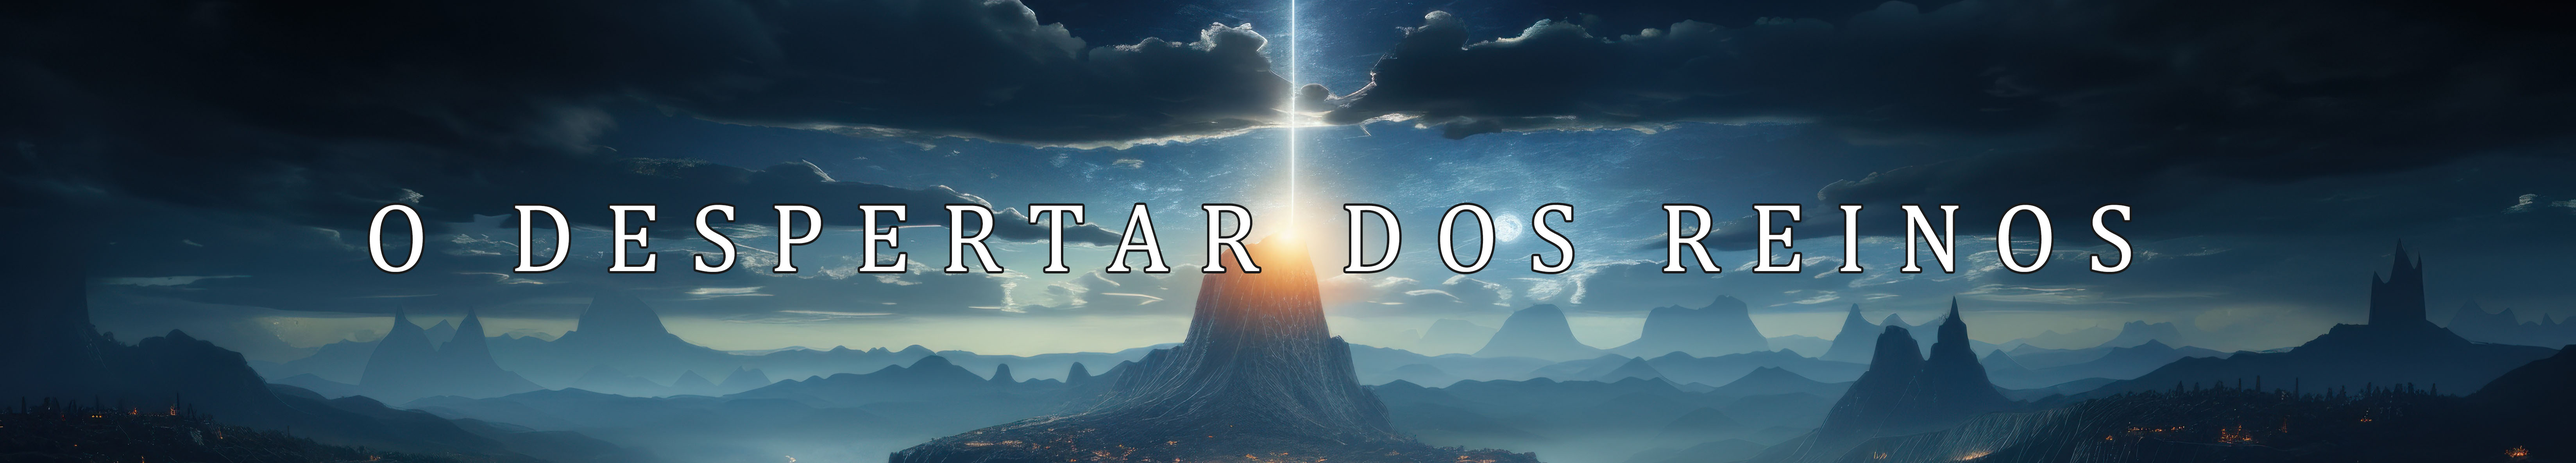
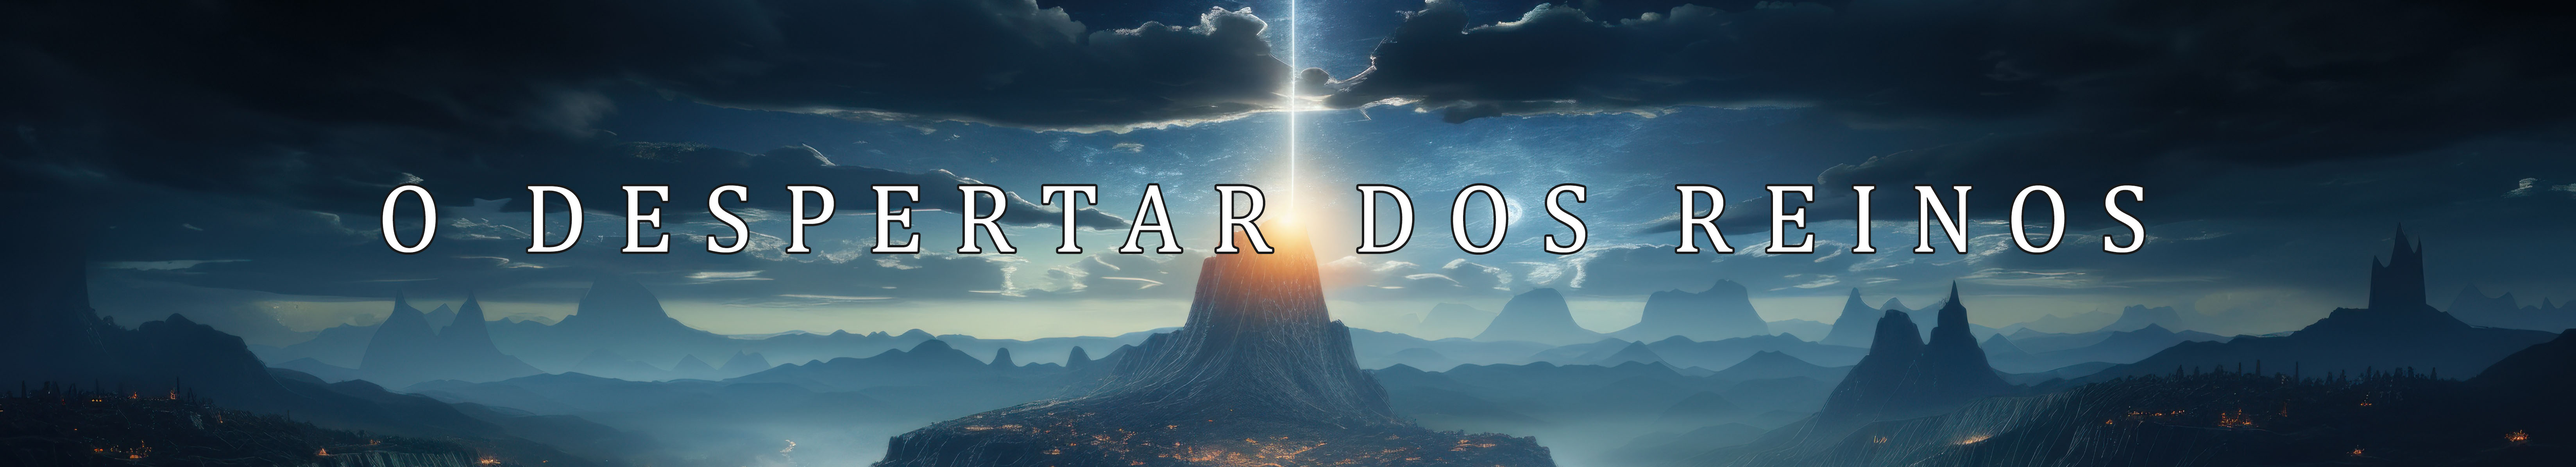
Add files via upload

diff --git a/magic.html b/magic.html
@@ -6,28 +6,26 @@
     <meta name="viewport" content="width=700, initial-scale=1">
     <link href="main.css" rel="stylesheet" type="text/css" />
     <title>C A R T A S  - M Á G I C A S</title>
-    <br>
-    <center><h1><b>O - D E S P E  R T A R - D O S - R E I N O S</b></h1></center>
-    <!--linha--><hr size="2" width="38%" align="center" noshade color="black">
-    <br>
-    <center><h1>C A R T A S  - M Á G I C A S</h1></center>
+    <link href="main.css" rel="stylesheet" type="text/css" />
 </head>
+<header>
+    <img src="banner despertar dos reinos cartas magicas.jpg"  alt="Banner" class="banner"  />
+</header>
 <body>
-<br> 
- <!--MENU PRINCIPAL-->
- <br><nav id="menu-h">
-    <ul>
-        <li><a href="index.html">H O M E</a></li>
-        <!--<li><a href="reinos.html">R E I N O S</a></li>-->
-        <li><a href="historia.html">H I S T Ó R I A</a></li>
-        <li><a href="personagens.html">P E R S O N A G E N S</a></li>
-        <!--<li><a href="map.html">M A P A S</a></li>-->
-        <li><a href="magic.html">C A R T A S  - M Á G I C A S</a></li>
-        <li><a href="help.html">A J U D A</a></li>
-        
-    </ul>
- 
- </nav>
+
+    
+<!--MENU PRINCIPAL-->
+    <nav id="menu-h">
+        <ul>
+            <li><a href="index.html">H O M E</a></li>
+            <li><a href="historia.html">H I S T Ó R I A</a></li>
+            <li><a href="personagens.html">P E R S O N A G E N S</a></li>
+            <li><a href="magic.html">C A R T A S  - M Á G I C A S</a></li>
+            <li><a href="help.html">A J U D A</a></li>
+        </ul>
+    </nav>
+
+
  
 
  <img src="image1.jpeg" width="250" style="left: 150px; top: 250px; position: absolute"><br>

diff --git a/help.html b/help.html
@@ -6,28 +6,25 @@
     <meta name="viewport" content="width=700, initial-scale=1">
     <link href="main.css" rel="stylesheet" type="text/css" />
     <title>A J U D A</title>
-    <br>
-    <center><h1><b>O - D E S P E  R T A R - D O S - R E I N O S</b></h1></center>
-    <!--linha--><hr size="2" width="38%" align="center" noshade color="black">
-    <br>
-    <center><h1>A J U D A</h1></center>
+    <link href="main.css" rel="stylesheet" type="text/css" />
 </head>
+<header>
+    <img src="banner despertar dos reinos ajuda.jpg"  alt="Banner" class="banner"  />
+</header>
 <body>
-<br>
-<!--MENU PRINCIPAL-->
-<br><nav id="menu-h">
-    <ul>
-        <li><a href="index.html">H O M E</a></li>
-        <!--<li><a href="reinos.html">R E I N O S</a></li>-->
-        <li><a href="historia.html">H I S T Ó R I A</a></li>
-        <li><a href="personagens.html">P E R S O N A G E N S</a></li>
-        <!--<li><a href="map.html">M A P A S</a></li>-->
-        <li><a href="magic.html">C A R T A S  - M Á G I C A S</a></li>
-        <li><a href="help.html">A J U D A</a></li>
-        
-    </ul>
 
-</nav>
+    
+<!--MENU PRINCIPAL-->
+    <nav id="menu-h">
+        <ul>
+            <li><a href="index.html">H O M E</a></li>
+            <li><a href="historia.html">H I S T Ó R I A</a></li>
+            <li><a href="personagens.html">P E R S O N A G E N S</a></li>
+            <li><a href="magic.html">C A R T A S  - M Á G I C A S</a></li>
+            <li><a href="help.html">A J U D A</a></li>
+        </ul>
+    </nav>
+
 
 <!--
  <br>

diff --git a/historia.html b/historia.html
@@ -6,29 +6,25 @@
     <meta name="viewport" content="width=700, initial-scale=1">
     <link href="main.css" rel="stylesheet" type="text/css" />
     <title>H I S T Ó R I A</title>
-    <br>
-    <center><h1><b>O - D E S P E  R T A R - D O S - R E I N O S</b></h1></center>
-    <!--linha--><hr size="2" width="38%" align="center" noshade color="black">
-    <br>
-    <center><h1>H I S T Ó R I A</h1></center>
+    <link href="main.css" rel="stylesheet" type="text/css" />
 </head>
+<header>
+    <img src="banner despertar dos reinos historia.jpg"  alt="Banner" class="banner"  />
+</header>
 <body>
-<br>
 
-    <!--MENU PRINCIPAL-->
-    <br><nav id="menu-h">
+    
+<!--MENU PRINCIPAL-->
+    <nav id="menu-h">
         <ul>
             <li><a href="index.html">H O M E</a></li>
-            <!--<li><a href="reinos.html">R E I N O S</a></li>-->
             <li><a href="historia.html">H I S T Ó R I A</a></li>
             <li><a href="personagens.html">P E R S O N A G E N S</a></li>
-            <!--<li><a href="map.html">M A P A S</a></li>-->
             <li><a href="magic.html">C A R T A S  - M Á G I C A S</a></li>
             <li><a href="help.html">A J U D A</a></li>
-            
         </ul>
+    </nav>
 
-</nav>
 
 
 <br><br><br><br><br><br><br><br><br><br><br><br><br><br><br><br><br><br><br><br><br><br>

diff --git a/personagens.html b/personagens.html
@@ -5,29 +5,26 @@
     <meta http-equiv="X-UA-Compatible" content="IE=edge">
     <meta name="viewport" content="width=700, initial-scale=1">
     <title>P E R S O N A G E N S</title>
-    <br>
-    <center><h1><b>O - D E S P E  R T A R - D O S - R E I N O S</b></h1></center>
-    <!--linha--><hr size="2" width="38%" align="center" noshade color="black">
-    <br>
-    <center><h1>P E R S O N A G E N S</h1></center>
     <link href="main.css" rel="stylesheet" type="text/css" />
 </head>
+<header>
+    <img src="banner despertar dos reinos personagens.jpg"  alt="Banner" class="banner"  />
+</header>
 <body>
-<br> 
-    <!--MENU PRINCIPAL-->
-    <br><nav id="menu-h">
+
+    
+<!--MENU PRINCIPAL-->
+    <nav id="menu-h">
         <ul>
             <li><a href="index.html">H O M E</a></li>
-            <!--<li><a href="reinos.html">R E I N O S</a></li>-->
             <li><a href="historia.html">H I S T Ó R I A</a></li>
             <li><a href="personagens.html">P E R S O N A G E N S</a></li>
-            <!--<li><a href="map.html">M A P A S</a></li>-->
             <li><a href="magic.html">C A R T A S  - M Á G I C A S</a></li>
             <li><a href="help.html">A J U D A</a></li>
-            
         </ul>
+    </nav>
 
-</nav>
+
  <br><br><br><br>
 
 

diff --git a/index.html b/index.html
@@ -6,19 +6,13 @@
     <meta name="viewport" content="width=700, initial-scale=1">
     <title>H O M E</title>
     <link href="main.css" rel="stylesheet" type="text/css" />
-    <!--<center><h1><b>O - D E S P E  R T A R - D O S - R E I N O S</b></h1></center>
-    linha <hr size="2" width="38%" align="center" noshade color="black">
-    <br>
-    <center><h1>H O M E</h1></center>-->
 </head>
-
 <header>
     <img src="banner despertar dos reinos.jpg"  alt="Banner" class="banner"  />
 </header>
-
-
 <body>
 
+    
 <!--MENU PRINCIPAL-->
     <nav id="menu-h">
         <ul>
